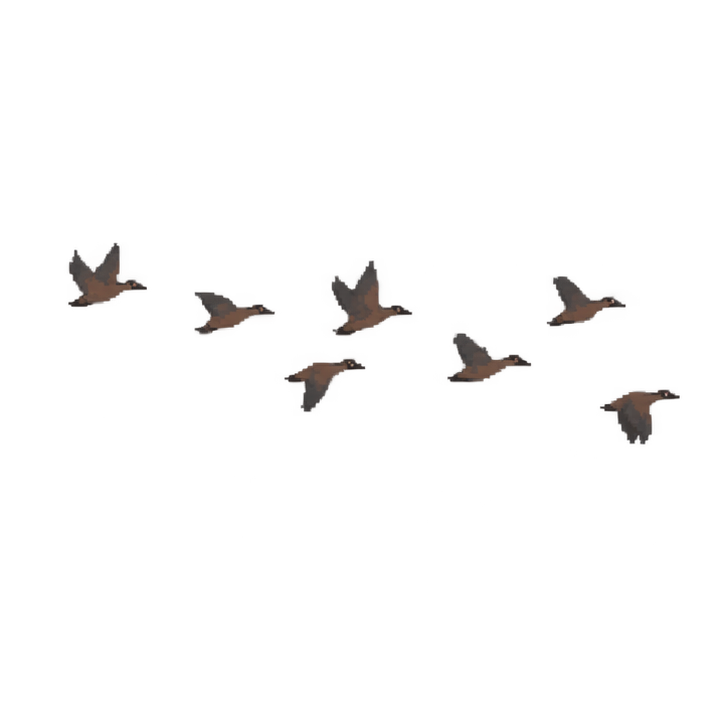
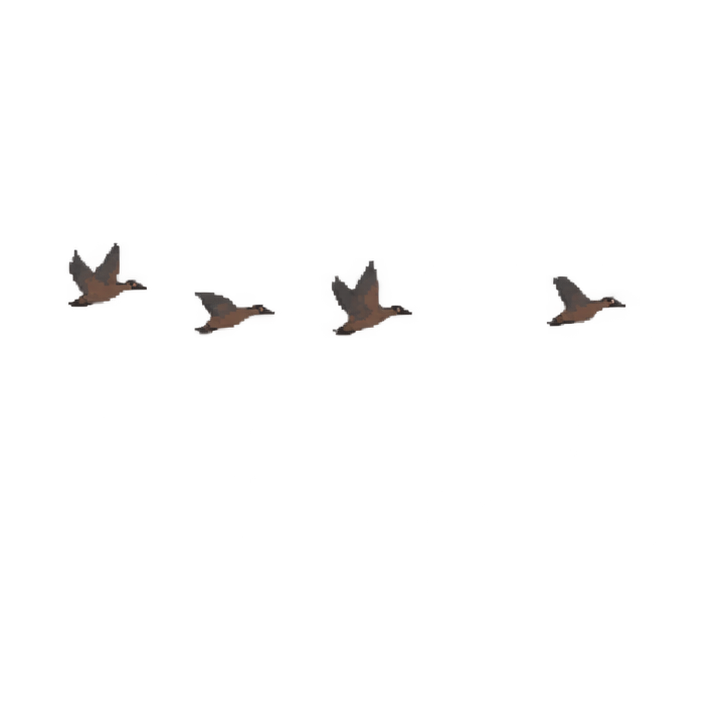
Update About hero section

Changed region(s): [[0.8204, 0.5166, 0.942, 0.6077], [0.395, 0.4862, 0.5166, 0.5773], [0.6077, 0.4558, 0.7293, 0.547]]

diff --git a/components/about/about-experience.tsx b/components/about/about-experience.tsx
@@ -13,13 +13,17 @@ const birdFrames = [
   `${ABOUT_PATH}/opening/bird-flock-02.png`,
   `${ABOUT_PATH}/opening/bird-flock-03.png`,
 ] as const;
-const birdSequence = [0, 1, 2, 1, 0] as const;
+const birdSequence = [0, 1, 2, 1] as const;
 
 function OpeningSection({ label }: { label: string }) {
   const [birdSequenceIndex, setBirdSequenceIndex] = useState(0);
 
   useEffect(() => {
     const motionPreference = window.matchMedia("(prefers-reduced-motion: reduce)");
+    birdFrames.forEach((src) => {
+      const image = new Image();
+      image.src = src;
+    });
     let timer: number | undefined;
 
     const syncBirdAnimation = () => {
@@ -29,8 +33,8 @@ function OpeningSection({ label }: { label: string }) {
         return;
       }
       timer = window.setInterval(() => {
-        setBirdSequenceIndex((index) => index === birdSequence.length - 1 ? 1 : index + 1);
-      }, 160);
+        setBirdSequenceIndex((index) => index === birdSequence.length - 1 ? 0 : index + 1);
+      }, 280);
     };
 
     syncBirdAnimation();

diff --git a/app/globals.css b/app/globals.css
@@ -202,7 +202,7 @@ a { color: inherit; }
   left: 0;
   width: clamp(300px, 28vw, 440px);
   aspect-ratio: 1;
-  animation: about-birds-cross 20s linear infinite;
+  animation: about-birds-cross 24s linear infinite;
 }
 
 .about-opening-bird {
